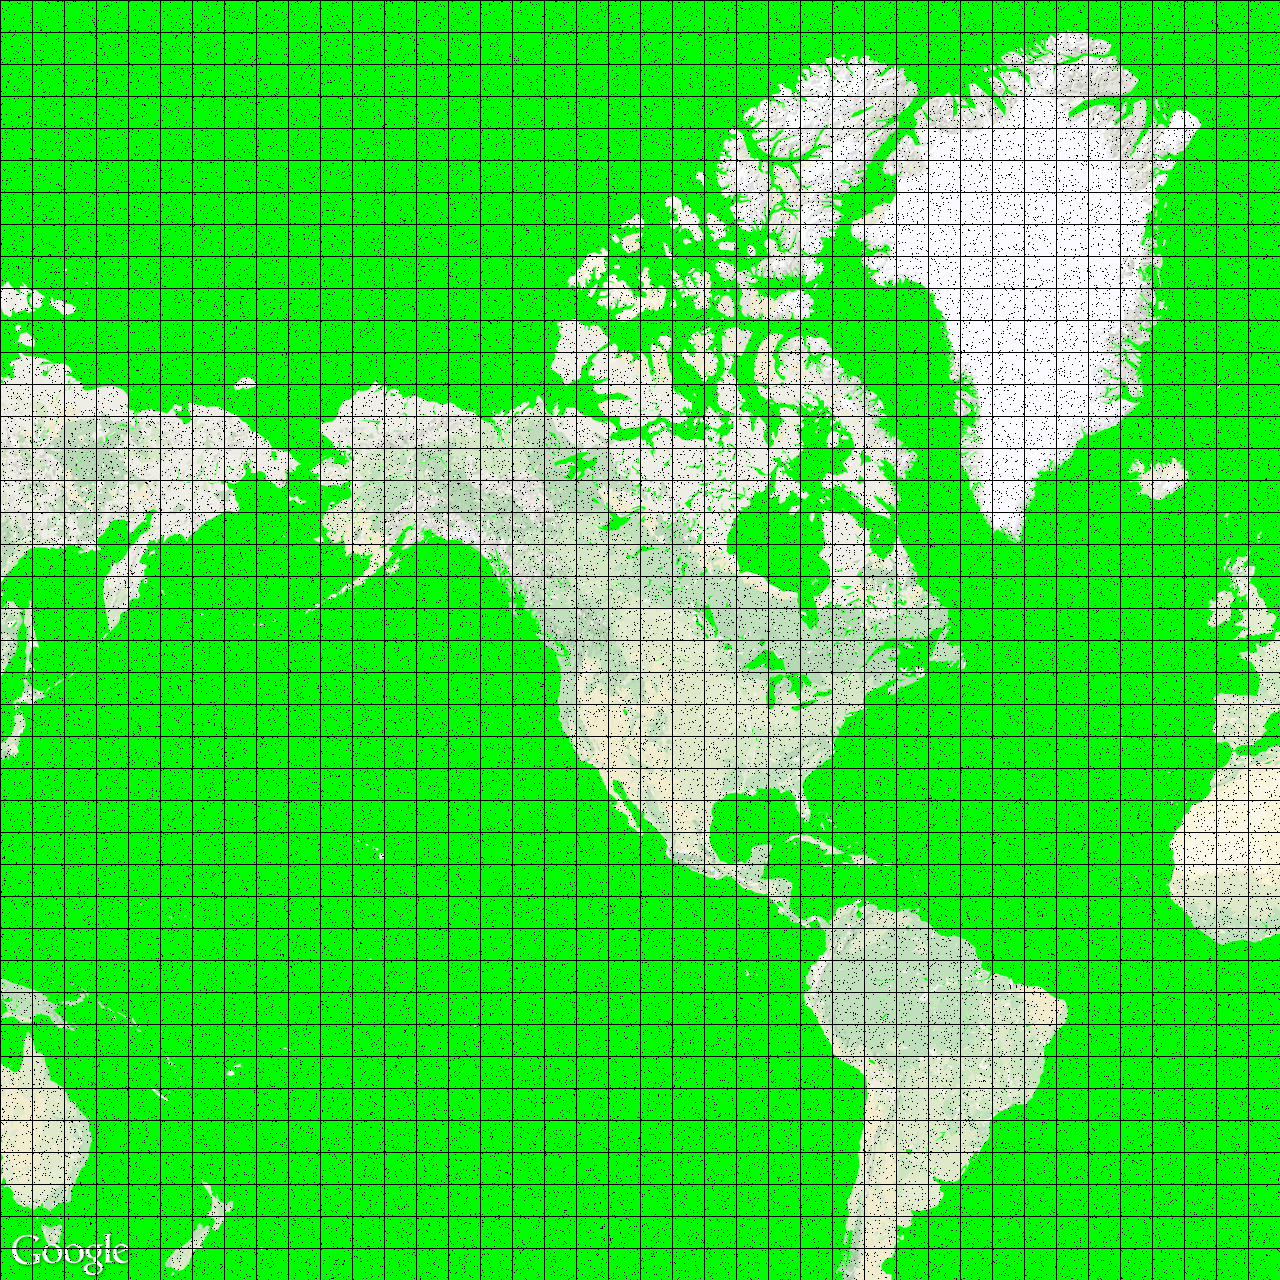
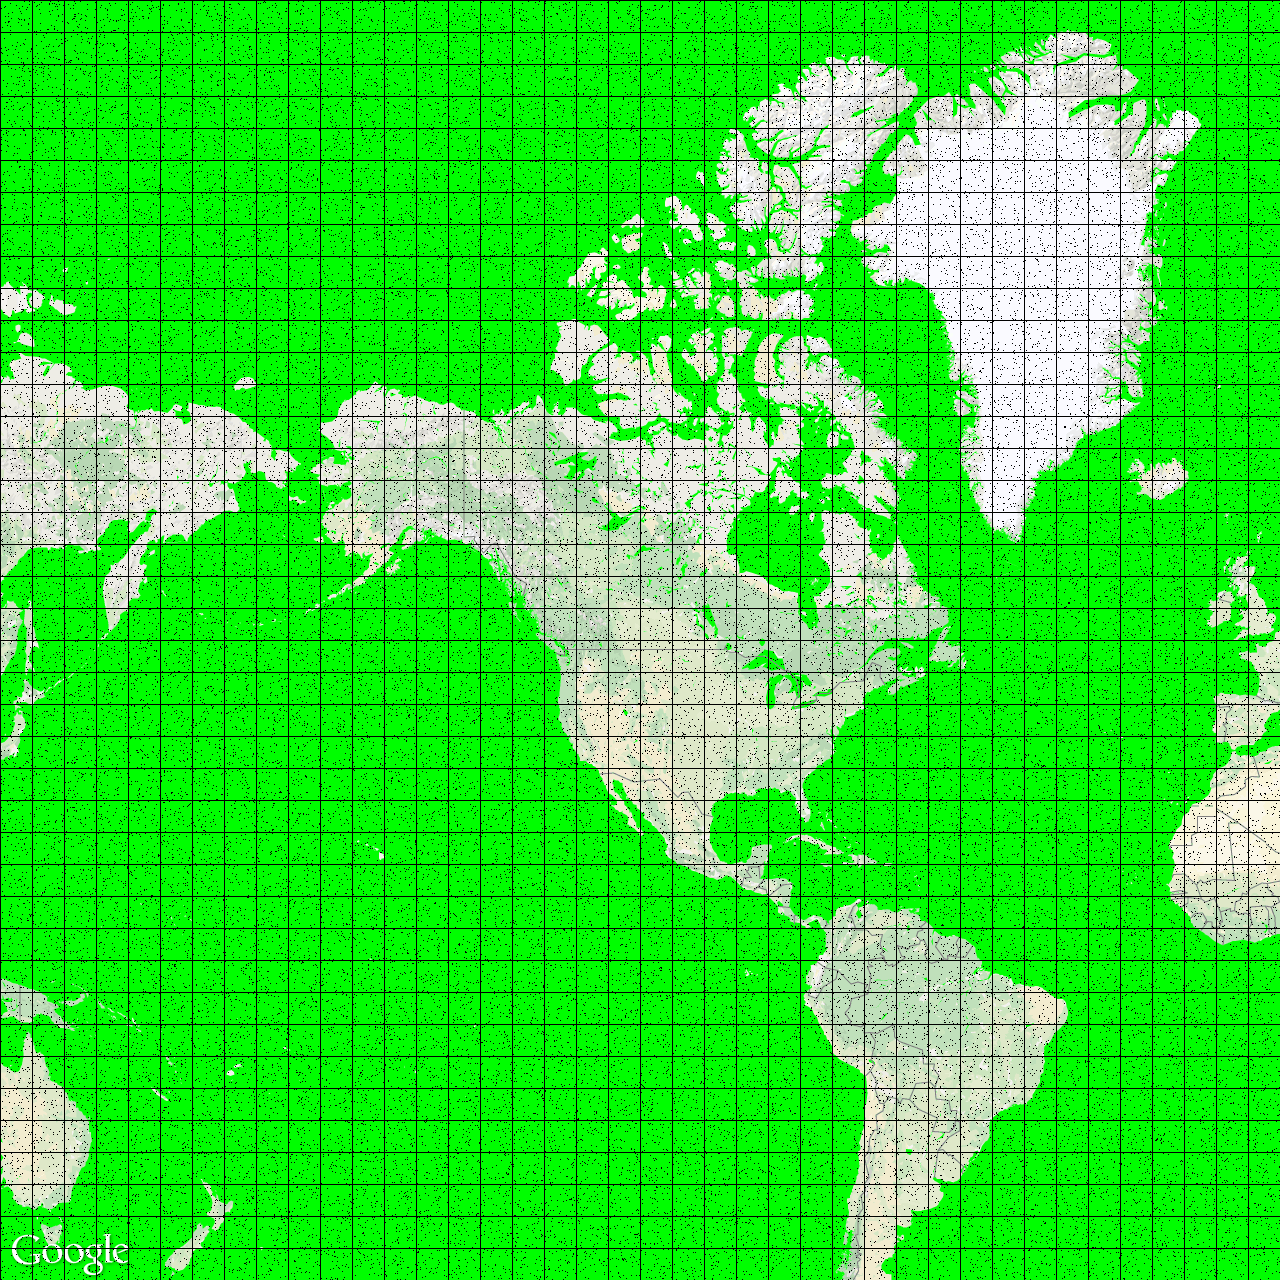
demo modifications

diff --git a/game.map.js b/game.map.js
@@ -156,19 +156,55 @@ this.laststate = {
 
 game_map.prototype.server_google_query = function(){
 var fs = require('fs'), PNG = require('pngjs').PNG, http = require('http');
+//////////////
+var demo = true;
+
+if (demo == true) {
+
+switch(Math.floor((Math.random() * 3) + 1)) {
+	case 1:	
+
+		loc = '40.7127,-74.0059';    //manhattan
+		zoom = '12';
+
+		break;
+	case 2:
+              
+		
+		loc = '16.9046921,-92.2834331';   //mexico 
+		zoom = '5'; 
+
+		break;
+	case 3:
+             
+
+		loc = '50,-110'; //world
+		zoom = '2';
+
+
+		break;
+}
+
+
+} else {
+
+
 
 //1024 400
 //40.7300694, -74.0024224
-var zoom = '2';
+var zoom = '9';
 //var loc = '40.7127,-74.0059';    //manhattan
 
-//var loc = '37.91408,-122.3101';     //san fran
+var loc = '37.90000,-122.289';     //san fran
 
 //var loc = '16.9046921,-92.2834331';   //mexico zoom = 5 
 
 //var loc = '38.5882897,137.8463195'     //japan zoom = 5
 
-var loc = '50,-110';
+//var loc = '50,-110'; //world zoom 2
+
+}
+/////////
 
 src = 'http://maps.googleapis.com/maps/api/staticmap?scale=2&center='+loc+'&zoom='+zoom+'&size=976x650&sensor=false&visual_refresh=true&style=feature:water|color:0x00FF00&style=element:labels|visibility:off&style=feature:transit|visibility:off&style=feature:poi|visibility:off&style=feature:road|visibility:off&style=feature:administrative|visibility:off';
 
@@ -433,8 +469,8 @@ game_map.prototype.drawTile = function(tile, destX, destY, cX, cY) {
 
 	if(this.map){
 
-var cameraX = parseInt(-this.game.camera.x);
-var cameraY = parseInt(-this.game.camera.y);
+var cameraX = parseInt(-this.game.camera.x+480);
+var cameraY = parseInt(-this.game.camera.y+325);
 
 
 

diff --git a/game.core.js b/game.core.js
@@ -105,7 +105,7 @@ if('undefined' != typeof(global)) frame_time = 45; //on server we run at 45ms, 2
                 other : new game_player(this)
             };
 
-	this.camera = {x:this.players.self.pos.x-200,y:this.players.self.pos.y-100};
+	this.camera = {x:this.players.self.pos.x-200,y:this.players.self.pos.y-100};  // -200 -100
 
                 //Debugging ghosts, to help visualise things
             this.ghosts = {
@@ -256,7 +256,7 @@ game_core.prototype.v_lerp = function(v,tv,t) { return { x: this.lerp(v.x, tv.x,
         this.info_color = 'rgba(255,255,255,0.1)';
         this.id = '';
 	
-	this.camera = { x:this.pos.x+200, y:this.pos.y+200 };
+	this.camera = { x:this.pos.x, y:this.pos.y };   // +200 +200
 
 
 	if(!this.game.server){
